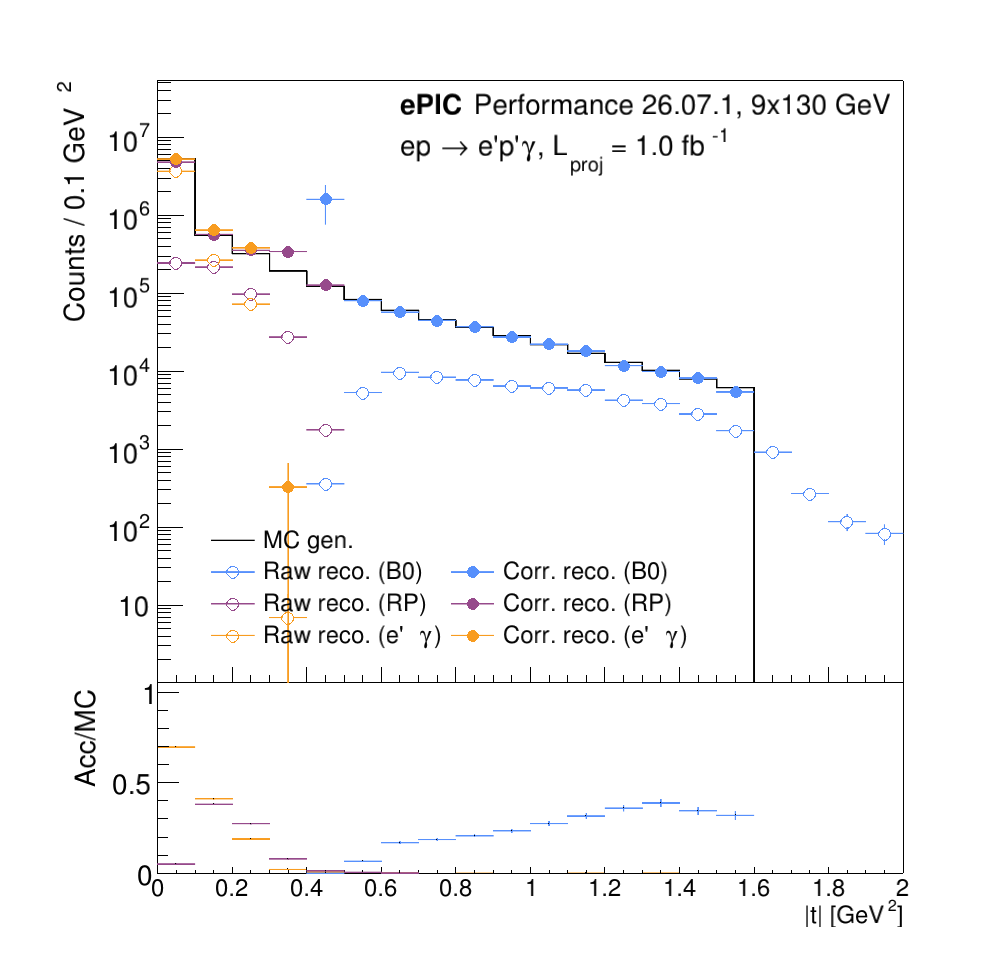
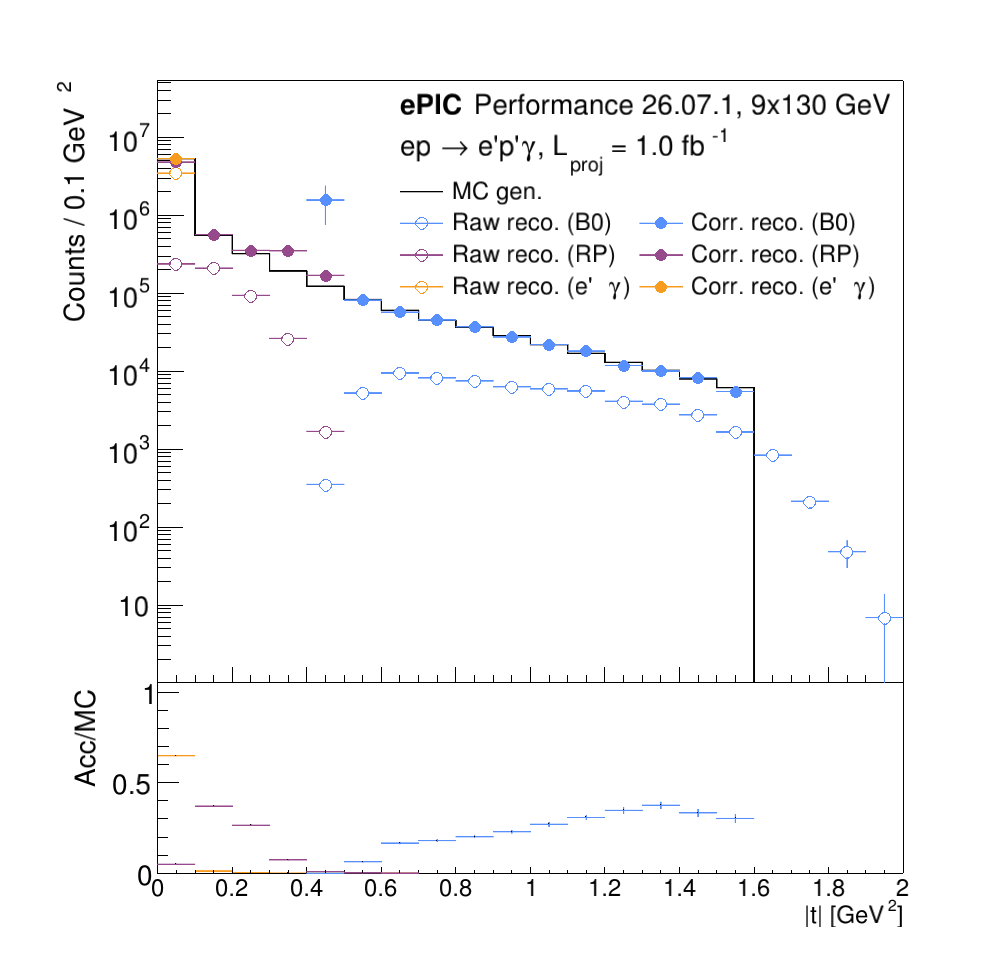
Responding to comments in AN

diff --git a/plotting/Plots_Event.C b/plotting/Plots_Event.C
@@ -384,7 +384,7 @@ void Plots_Event(TString campaign = "26.07.1", TString energy = "9x130", TString
   h_Q2_MC->GetYaxis()->SetLabelSize(0.05);
   // Drawing
   h_Q2_MC->Draw("hist");
-  h_Q2_Rec->Draw("pe same");
+  //h_Q2_Rec->Draw("pe same");
   h_Q2_Corr->Draw("pe same");
   // Labels
   TLatex* tePICLabel = new TLatex(0.17, 0.86, 
@@ -397,7 +397,7 @@ void Plots_Event(TString campaign = "26.07.1", TString energy = "9x130", TString
   lQ2->SetLineWidth(0);
   lQ2->SetFillStyle(0);
   lQ2->AddEntry(h_Q2_MC, "MC gen.", "l");
-  lQ2->AddEntry(h_Q2_Rec, "Raw reco.", "lp");
+  //lQ2->AddEntry(h_Q2_Rec, "Raw reco.", "lp");
   lQ2->AddEntry(h_Q2_Corr, "Corr. reco.", "lp");
   lQ2->Draw();
   
@@ -854,7 +854,7 @@ void Plots_Event(TString campaign = "26.07.1", TString energy = "9x130", TString
   // Labels
   tePICLabel_R->Draw("same");
   // Legend
-  TLegend* lt = new TLegend(0.17, 0.05, 0.71, 0.25);
+  TLegend* lt = new TLegend(0.38, 0.60, 0.92, 0.80);
   lt->SetLineWidth(0);
   lt->SetFillStyle(0);
   lt->SetNColumns(2);
@@ -918,14 +918,16 @@ void Plots_Event(TString campaign = "26.07.1", TString energy = "9x130", TString
   h_tResLC_Proj->SetFillStyle(3001);
   // Set draw options - axes
   // Using Method L plot for baseline
-  gPad->SetLogy();
+  //gPad->SetLogy();
   h_tResLC_Proj->GetXaxis()->SetTitle("#Deltat [GeV^{2}]");
-  h_tResLC_Proj->GetXaxis()->SetRangeUser(-2.,2.);
+  h_tResLC_Proj->GetXaxis()->SetRangeUser(-1.,1.);
   h_tResLC_Proj->GetYaxis()->SetTitle("Normalized counts/0.02 GeV^{2}");
   h_tResLC_Proj->GetYaxis()->SetLabelSize(0.03);
   h_tResLC_Proj->GetYaxis()->SetTitleSize(0.04);
   h_tResLC_Proj->GetYaxis()->SetTitleOffset(1.3);
-  h_tResLC_Proj->GetYaxis()->SetRangeUser(1,1000*h_tResLC_Proj->GetMaximum());
+  double tres_max{0};
+  for( TH1D* h : {h_tResB0_Proj,h_tResRP_Proj,h_tResLC_Proj}){ if(h->GetMaximum() > tres_max) tres_max = h->GetMaximum(); }
+  h_tResLC_Proj->GetYaxis()->SetRangeUser(0.,1.5*tres_max);
   // Draw
   // Method L first, others depending on which has more entries
   h_tResLC_Proj->Draw("hist");
@@ -938,8 +940,9 @@ void Plots_Event(TString campaign = "26.07.1", TString energy = "9x130", TString
     h_tResB0_Proj->Draw("hist same");
   }
   // Add text
-  TLatex* tePICLabel_tres = new TLatex(-1.85, 0.25*h_tResLC_Proj->GetMaximum(),
+  TLatex* tePICLabel_tres = new TLatex(0.16, 0.89,
 				       Form("#splitline{#bf{ePIC} Performance %s, %s GeV}{ep #rightarrow e'p'#gamma}", campaign.Data(), energy.Data()));
+  tePICLabel_tres->SetNDC();
   tePICLabel_tres->SetTextSize(0.037);
   tePICLabel_tres->Draw("same");
   // Add legend
@@ -950,13 +953,13 @@ void Plots_Event(TString campaign = "26.07.1", TString energy = "9x130", TString
   TString sB0Res_leg = "BABE (B0), RMS = " + combineScientific(h_tResB0_Proj->GetRMS(),h_tResB0_Proj->GetRMSError()) + " GeV^{2}";
   TString sRPRes_leg = "BABE (RP), RMS = " + combineScientific(h_tResRP_Proj->GetRMS(),h_tResRP_Proj->GetRMSError()) + " GeV^{2}";
   TString sLCRes_leg = "eXBE, RMS = " + combineScientific(h_tResLC_Proj->GetRMS(),h_tResLC_Proj->GetRMSError()) + " GeV^{2}";
-  ltRes->AddEntry(h_tResB0_Proj,sB0Res_leg,"lp");
-  ltRes->AddEntry(h_tResRP_Proj,sRPRes_leg,"lp");
-  ltRes->AddEntry(h_tResLC_Proj,sLCRes_leg,"lp");
+  ltRes->AddEntry(h_tResB0_Proj,sB0Res_leg,"lf");
+  ltRes->AddEntry(h_tResRP_Proj,sRPRes_leg,"lf");
+  ltRes->AddEntry(h_tResLC_Proj,sLCRes_leg,"lf");
   ltRes->Draw();
   // Save figure
   if(kSAVE) ctRes_All->SaveAs(sFigsPath + "TDR_" + energy +"_tRes_All.png");
-  //ctRes_All->Close();
+  ctRes_All->Close();
 
   // CANVAS - Overlaid t-resolutions (relative)
   TH1D* h_tResB0Pct_Proj = (TH1D*)h_t_B0ResPct->ProjectionY("tresb0pct_py");
@@ -980,9 +983,11 @@ void Plots_Event(TString campaign = "26.07.1", TString energy = "9x130", TString
   // Set draw options - axes
   // Using Method L plot for baseline
   h_tResLCPct_Proj->GetXaxis()->SetTitle("#Deltat/|t_{MC}|");
-  h_tResLCPct_Proj->GetXaxis()->SetRangeUser(-0.05,1.);
   h_tResLCPct_Proj->GetYaxis()->SetTitle("Normalized counts");
-  h_tResLCPct_Proj->GetYaxis()->SetRangeUser(1,1.25*h_tResLCPct_Proj->GetMaximum());
+  h_tResLCPct_Proj->GetYaxis()->SetTitleOffset(1.4);
+  double tres_pct_max{0};
+  for( TH1D* h : {h_tResB0Pct_Proj,h_tResRPPct_Proj,h_tResLCPct_Proj}){ if(h->GetMaximum() > tres_pct_max) tres_pct_max = h->GetMaximum(); }
+  h_tResLCPct_Proj->GetYaxis()->SetRangeUser(0.,1.5*tres_pct_max);
   // Draw
   // Method L first, others depending on which has more entries
   h_tResLCPct_Proj->Draw("hist");
@@ -995,12 +1000,13 @@ void Plots_Event(TString campaign = "26.07.1", TString energy = "9x130", TString
     h_tResB0Pct_Proj->Draw("hist same");
   }
   // Add text
-  TLatex* tePICLabel_trespct = new TLatex(-0.01, 0.91*h_tResLCPct_Proj->GetMaximum(),
+  TLatex* tePICLabel_trespct = new TLatex(0.16, 0.89,
 					  Form("#splitline{#bf{ePIC} Performance %s, %s GeV}{ep #rightarrow e'p'#gamma}", campaign.Data(), energy.Data()));
+  tePICLabel_trespct->SetNDC();
   tePICLabel_trespct->SetTextSize(0.037);
   tePICLabel_trespct->Draw("same");
   // Add legend
-  TLegend* ltResPct = new TLegend(0.30,0.64,0.64,0.78);
+  TLegend* ltResPct = new TLegend(0.15,0.70,0.49,0.83);
   ltResPct->SetLineWidth(0);
   ltResPct->SetFillStyle(0);
   ltResPct->SetTextSize(0.032);
@@ -1013,7 +1019,7 @@ void Plots_Event(TString campaign = "26.07.1", TString energy = "9x130", TString
   ltResPct->Draw();
   // Save figure
   if(kSAVE) ctResPct_All->SaveAs(sFigsPath + "TDR_" + energy +"_tResPct_All.png");
-  //ctResPct_All->Close();
+  ctResPct_All->Close();
 
 
   // CANVAS: Event (E-pz)
